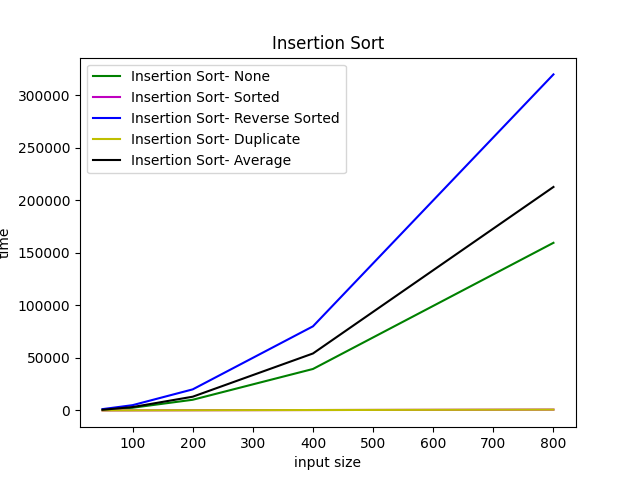
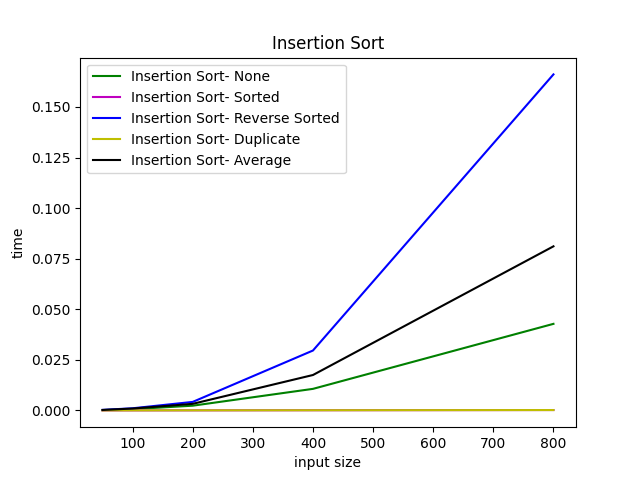
new version with  time of plots

diff --git a/main.py b/main.py
@@ -107,8 +107,8 @@ def insertionSortAnalysis(k, inputs, ns):
         # k = len(input1) - 1
         insertionSort = Algorithm("insertionSort", input1, k)
         insertionSort.insertionSort()
-        # xinsert.append(insertionSort.elapsedTime)
-        xinsert.append(insertionSort.counter)
+        xinsert.append(insertionSort.elapsedTime)
+        # xinsert.append(insertionSort.counter)
 
     # --------------------------------- SORTED ARRAY ---------------------------------
     xinsert2 = []
@@ -118,8 +118,8 @@ def insertionSortAnalysis(k, inputs, ns):
         # k = len(input2) - 1
         insertionSort2 = Algorithm("insertionSort", input2, k)
         insertionSort2.insertionSort()
-        # xinsert2.append(insertionSort2.elapsedTime)
-        xinsert2.append(insertionSort2.counter)
+        xinsert2.append(insertionSort2.elapsedTime)
+        # xinsert2.append(insertionSort2.counter)
 
     # --------------------------------- REVERSED SORTED ARRAY ---------------------------------
     xinsert3 = []
@@ -130,8 +130,8 @@ def insertionSortAnalysis(k, inputs, ns):
         # k = len(input3) - 1
         insertionSort3 = Algorithm("insertionSort", input3, k)
         insertionSort3.insertionSort()
-        # xinsert3.append(insertionSort3.elapsedTime)
-        xinsert3.append(insertionSort3.counter)
+        xinsert3.append(insertionSort3.elapsedTime)
+        # xinsert3.append(insertionSort3.counter)
 
     input_dup = duplicateInput(ns)
     xinsert4 = []
@@ -139,8 +139,8 @@ def insertionSortAnalysis(k, inputs, ns):
         # k = len(input4) - 1
         insertionSort4 = Algorithm("insertionSort", input4, k)
         insertionSort4.insertionSort()
-        # xinsert4.append(insertionSort4.elapsedTime)
-        xinsert4.append(insertionSort4.counter)
+        xinsert4.append(insertionSort4.elapsedTime)
+        # xinsert4.append(insertionSort4.counter)
 
     avgArray = averageInput(ns)
     xinsert5 = []
@@ -152,8 +152,8 @@ def insertionSortAnalysis(k, inputs, ns):
             # k = len(input4) - 1
             insertionSort5 = Algorithm("insertionSort", input5, k)
             insertionSort5.insertionSort()
-            #  avg = avg + insertionSort5.elapsedTime
-            avg = avg + insertionSort5.counter
+            avg = avg + insertionSort5.elapsedTime
+            # avg = avg + insertionSort5.counter
 
         xinsert5.append(avg / s)
 
@@ -174,8 +174,8 @@ def mergesortAnalyis(k, inputs, ns):
         n = len(input)
         mergeSort = Algorithm("mergeSort", input, k)
         mergeSort.mergeFinal()
-        # xmerge.append(mergeSort.elapsedTime)
-        xmerge.append(mergeSort.counter)
+        xmerge.append(mergeSort.elapsedTime)
+        # xmerge.append(mergeSort.counter)
 
     # --------------------------------- SORTED ARRAY ---------------------------------
     xmerge2 = []
@@ -184,8 +184,8 @@ def mergesortAnalyis(k, inputs, ns):
     for input2 in input_sorted:
         mergeSort2 = Algorithm("mergeSort", input2, k)
         mergeSort2.mergeFinal()
-        # xmerge2.append(mergeSort2.elapsedTime)
-        xmerge2.append(mergeSort2.counter)
+        xmerge2.append(mergeSort2.elapsedTime)
+        # xmerge2.append(mergeSort2.counter)
 
     # --------------------------------- REVERSED SORTED ARRAY ---------------------------------
     xmerge3 = []
@@ -194,16 +194,16 @@ def mergesortAnalyis(k, inputs, ns):
     for input3 in input_reversed:
         mergeSort3 = Algorithm("mergeSort", input3, k)
         mergeSort3.mergeFinal()
-        # xmerge3.append(mergeSort3.elapsedTime)
-        xmerge3.append(mergeSort3.counter)
+        xmerge3.append(mergeSort3.elapsedTime)
+        # xmerge3.append(mergeSort3.counter)
 
     input_dup = duplicateInput(ns)
     xmerge4 = []
     for input4 in input_dup:
         mergeSort4 = Algorithm("mergeSort", input4, k)
         mergeSort4.mergeFinal()
-        # xmerge4.append(mergeSort4.elapsedTime)
-        xmerge4.append(mergeSort4.counter)
+        xmerge4.append(mergeSort4.elapsedTime)
+        # xmerge4.append(mergeSort4.counter)
 
     avgArray = averageInput(ns)
     xmerge5 = []
@@ -214,8 +214,8 @@ def mergesortAnalyis(k, inputs, ns):
             # k = len(input4) - 1
             mergeSort5 = Algorithm("mergeSort", input5, k)
             mergeSort5.mergeFinal()
-            # avg = avg + mergeSort5.elapsedTime)
-            avg = avg + mergeSort5.counter
+            avg = avg + mergeSort5.elapsedTime
+            # avg = avg + mergeSort5.counter
 
         xmerge5.append(avg / s)
 
@@ -238,8 +238,8 @@ def quicksortAnalyis(k, inputs, ns):
         n = len(input)
         quicksort = Algorithm("quicksort", input, k)
         quicksort.quicksort(input, 0, n - 1, 0)
-        # xquick.append(quicksort.elapsedTime)
-        xquick.append(quicksort.counter)
+        xquick.append(quicksort.elapsedTime)
+        # xquick.append(quicksort.counter)
 
     # --------------------------------- SORTED ARRAY ---------------------------------
     xquick2 = []
@@ -250,8 +250,8 @@ def quicksortAnalyis(k, inputs, ns):
         n = len(input2)
         quicksort2 = Algorithm("quicksort", input2, k)
         quicksort2.quicksort(input2, 0, n - 1, 0)
-        # xquick2.append(quicksort2.elapsedTime)
-        xquick2.append(quicksort2.counter)
+        xquick2.append(quicksort2.elapsedTime)
+        # xquick2.append(quicksort2.counter)
 
     # --------------------------------- REVERSED SORTED ARRAY ---------------------------------
     xquick3 = []
@@ -261,8 +261,8 @@ def quicksortAnalyis(k, inputs, ns):
         n = len(input3)
         quicksort3 = Algorithm("quicksort", input3, k)
         quicksort3.quicksort(input3, 0, n - 1, 0)
-        # xquick3.append(quicksort3.elapsedTime)
-        xquick3.append(quicksort3.counter)
+        xquick3.append(quicksort3.elapsedTime)
+        # xquick3.append(quicksort3.counter)
 
     input_dup = duplicateInput(ns)
     xquick4 = []
@@ -270,8 +270,8 @@ def quicksortAnalyis(k, inputs, ns):
         n = len(input4)
         quicksort4 = Algorithm("quicksort", input4, k)
         quicksort4.quicksort(input4, 0, n - 1, 0)
-        # xquick4.append(quicksort4.elapsedTime)
-        xquick4.append(quicksort4.counter)
+        xquick4.append(quicksort4.elapsedTime)
+        # xquick4.append(quicksort4.counter)
 
     avgArray = averageInput(ns)
     xquick5 = []
@@ -283,8 +283,8 @@ def quicksortAnalyis(k, inputs, ns):
             n = len(input5)
             quicksort5 = Algorithm("quicksort", input5, k)
             quicksort5.quicksort(input5, 0, n - 1, 0)
-            # avg = avg + quicksort5.elapsedTime
-            avg = avg + quicksort5.counter
+            avg = avg + quicksort5.elapsedTime
+            # avg = avg + quicksort5.counter
 
         xquick5.append(avg / s)
 
@@ -305,8 +305,8 @@ def partialSelectionSortAnalyis(k, inputs, ns):
         n = len(input)
         partialSelectionSort = Algorithm("partialSelectionSort", input, k)
         partialSelectionSort.partialSelectionSort()
-        # xp.append(partialSelectionSort.elapsedTime)
-        xp.append(partialSelectionSort.counter)
+        xp.append(partialSelectionSort.elapsedTime)
+        # xp.append(partialSelectionSort.counter)
 
     # --------------------------------- SORTED ARRAY ---------------------------------
     xp2 = []
@@ -317,8 +317,8 @@ def partialSelectionSortAnalyis(k, inputs, ns):
         n = len(input2)
         partialSelectionSort2 = Algorithm("partialSelectionSort", input2, k)
         partialSelectionSort2.partialSelectionSort()
-        # xp2.append(partialSelectionSort2.elapsedTime)
-        xp2.append(partialSelectionSort2.counter)
+        xp2.append(partialSelectionSort2.elapsedTime)
+        #xp2.append(partialSelectionSort2.counter)
 
     # --------------------------------- REVERSED SORTED ARRAY ---------------------------------
     xp3 = []
@@ -328,8 +328,8 @@ def partialSelectionSortAnalyis(k, inputs, ns):
         n = len(input3)
         partialSelectionSort3 = Algorithm("partialSelectionSort", input3, k)
         partialSelectionSort3.partialSelectionSort()
-        # xp3.append(partialSelectionSort3.elapsedTime)
-        xp3.append(partialSelectionSort3.counter)
+        xp3.append(partialSelectionSort3.elapsedTime)
+        # xp3.append(partialSelectionSort3.counter)
 
     input_dup = duplicateInput(ns)
     xp4 = []
@@ -337,8 +337,8 @@ def partialSelectionSortAnalyis(k, inputs, ns):
         n = len(input4)
         partialSelectionSort4 = Algorithm("partialSelectionSort", input4, k)
         partialSelectionSort4.partialSelectionSort()
-        # xp4.append(partialSelectionSort4.elapsedTime)
-        xp4.append(partialSelectionSort4.counter)
+        xp4.append(partialSelectionSort4.elapsedTime)
+        # xp4.append(partialSelectionSort4.counter)
 
     avgArray = averageInput(ns)
     xp5 = []
@@ -349,8 +349,8 @@ def partialSelectionSortAnalyis(k, inputs, ns):
             n = len(input5)
             partialSelectionSort5 = Algorithm("partialSelectionSort", input5, k)
             partialSelectionSort5.partialSelectionSort()
-            # avg = avg = partialSelectionSort5.elapsedTime
-            avg = avg + partialSelectionSort5.counter
+            avg = avg = partialSelectionSort5.elapsedTime
+            # avg = avg + partialSelectionSort5.counter
 
         xp5.append(avg / s)
 

diff --git a/Algorithm.py b/Algorithm.py
@@ -158,7 +158,7 @@ class Algorithm:
             for j in range(i + 1, len(self.arr)):
                 self.counter = self.counter + 1
                 if self.arr[j] < minValue:
-                    self.counter = self.counter + 1
+                    # self.counter = self.counter + 1
                     minIndex = j
                     minValue = self.arr[j]
                     temp = self.arr[i]
